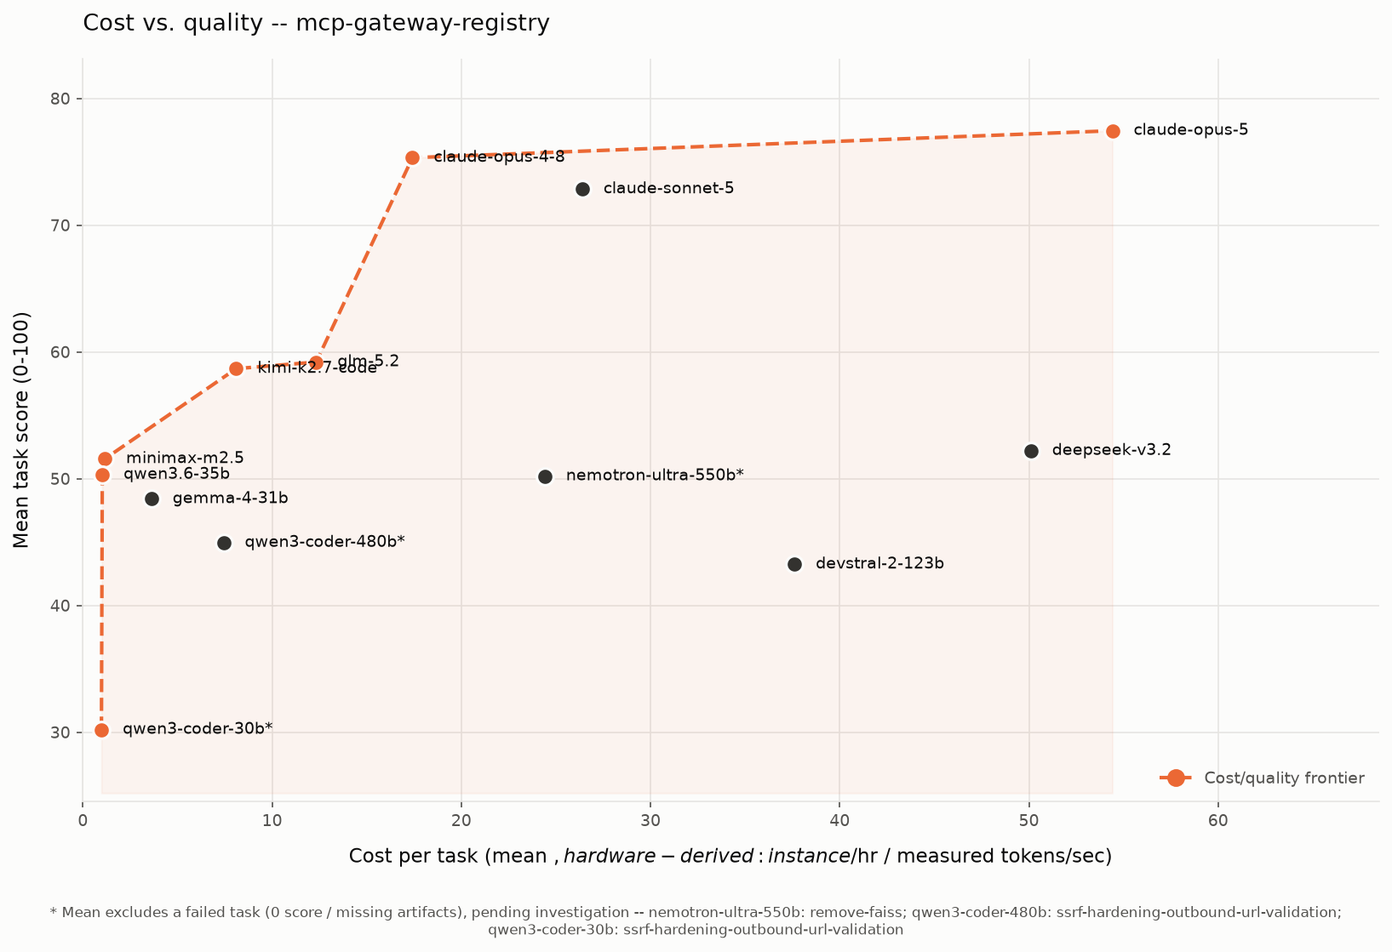
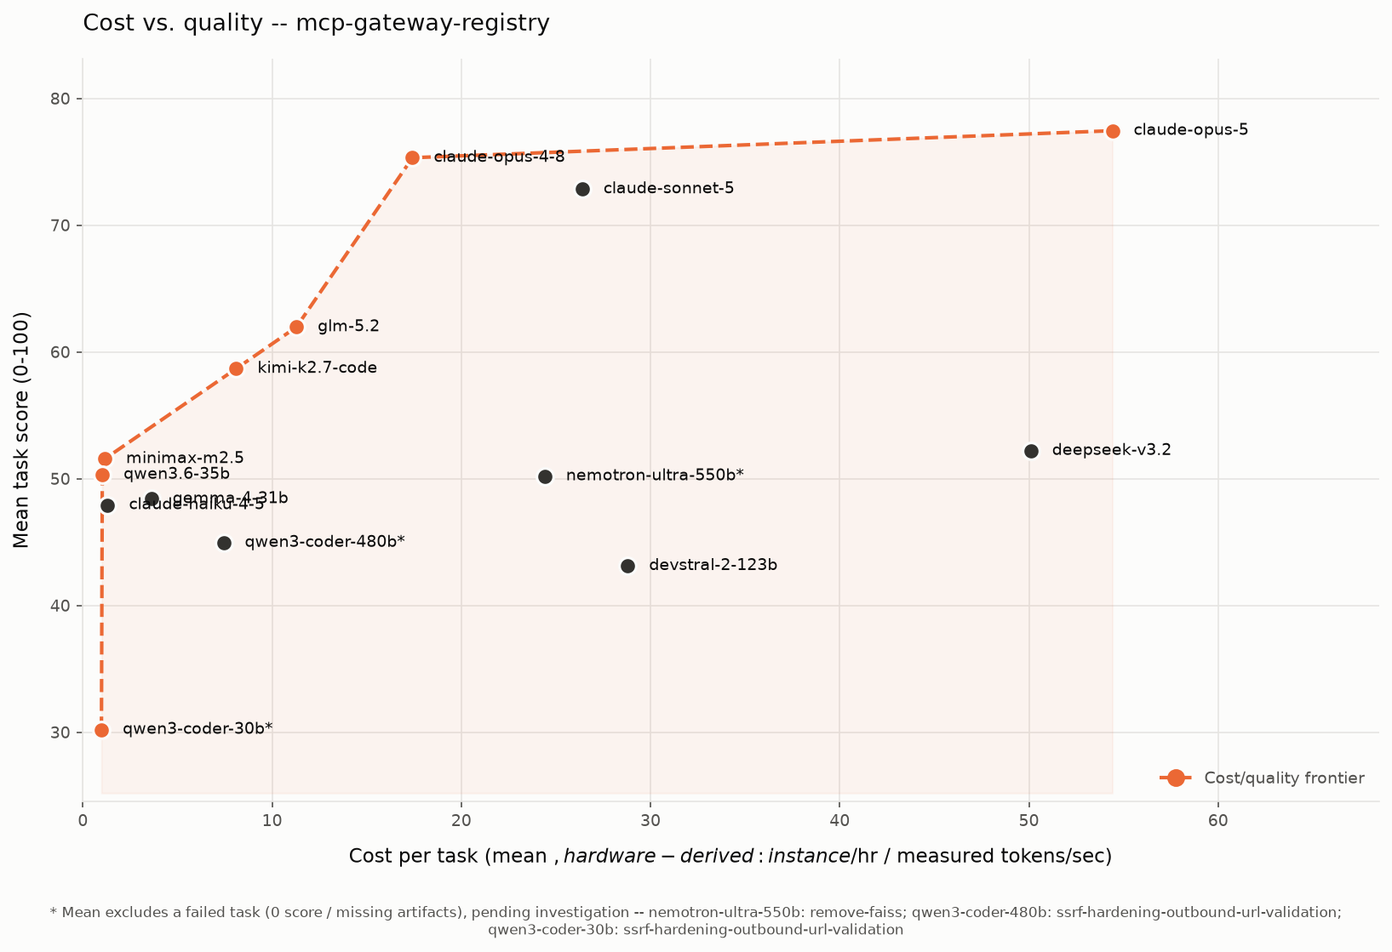
README: GLM-5.2 200K re-run, Devstral TP=4, add Claude-Haiku-4.5 (14 models)
Fold three merged benchmark updates into the results table, leaderboard,
cost/quality chart, and narrative:

- GLM-5.2 (PR #54): re-run at the standard 200K window (was 300K). Score
  59.20 -> 61.96 (5/5), now apples-to-apples on context and the top
  open-weight model; hardware-derived cost $12.33 -> $11.29/task.
- Devstral-2-123B (PR #53): re-run at TP=4 (half the H200 box, was TP=8).
  No quality regression: 43.24 -> 43.12 (5/5); token-est cost -> $28.80.
- Claude-Haiku-4.5 (PR #52): new Path 1 (Bedrock) column/row -- 47.92 mean,
  5/5, $1.31/task metered bill. Mid-pack quality; dominated on cost by
  MiniMax-M2.5 ($1.16 / 51.56) so it sits just off the frontier.

Both cost/quality charts regenerated (14 models, 7 on frontier). Footnotes 6
and 9, the frontier caption, model counts, and 'coming soon' list updated
(Haiku moves from coming-soon to benchmarked).

diff --git a/README.md b/README.md
@@ -16,7 +16,7 @@ Each task points the agent at a real GitHub repository and a real problem. The a
 
 ## Results: a worked example
 
-To show what the harness produces, we ran it against [agentic-community/mcp-gateway-registry](https://github.com/agentic-community/mcp-gateway-registry) at tag `1.24.4` -- **5 tasks**, each scored by the judge. Below is what we have measured so far: **13 models** across **Path 1** (Anthropic on Amazon Bedrock) and **Path 3** (self-hosted on vLLM, across an 8x H200 `p5en.48xlarge` and a single `g6e.12xlarge`); the cost/quality chart leads, the full task-by-task table and per-model leaderboard follow, and the exact models + hardware are listed under the table. Path 2 (open-weight on Bedrock via the LiteLLM proxy) is **coming soon** -- we publish only what we have measured here. (The `mcp-gateway-registry` dataset ships in [benchmarks/dataset/](benchmarks/dataset/mcp-gateway-registry.yaml) so you can reproduce the run; the generated artifacts themselves are not committed, so a customer's own runs never risk landing in version control. The only committed worked example under [benchmarks/swe-benchmark-data/](benchmarks/swe-benchmark-data/) is the trivial `Hello-World` sanity run.)
+To show what the harness produces, we ran it against [agentic-community/mcp-gateway-registry](https://github.com/agentic-community/mcp-gateway-registry) at tag `1.24.4` -- **5 tasks**, each scored by the judge. Below is what we have measured so far: **14 models** across **Path 1** (Anthropic on Amazon Bedrock) and **Path 3** (self-hosted on vLLM, across an 8x H200 `p5en.48xlarge` and a single `g6e.12xlarge`); the cost/quality chart leads, the full task-by-task table and per-model leaderboard follow, and the exact models + hardware are listed under the table. Path 2 (open-weight on Bedrock via the LiteLLM proxy) is **coming soon** -- we publish only what we have measured here. (The `mcp-gateway-registry` dataset ships in [benchmarks/dataset/](benchmarks/dataset/mcp-gateway-registry.yaml) so you can reproduce the run; the generated artifacts themselves are not committed, so a customer's own runs never risk landing in version control. The only committed worked example under [benchmarks/swe-benchmark-data/](benchmarks/swe-benchmark-data/) is the trivial `Hello-World` sanity run.)
 
 | # | Problem | Difficulty | Source |
 |---|---------|-----------|--------|
@@ -26,42 +26,42 @@ To show what the harness produces, we ran it against [agentic-community/mcp-gate
 | 4 | `migrate-ecs-env-vars-to-secrets-manager` | High | Upstream [#1134](https://github.com/agentic-community/mcp-gateway-registry/issues/1134) |
 | 5 | `replace-keycloak-db-password-with-rds-iam` | High | Upstream [#1303](https://github.com/agentic-community/mcp-gateway-registry/issues/1303) |
 
-**Models benchmarked so far:** **Path 1 (Bedrock):** Claude-Opus-5, Claude-Opus-4.8, Claude-Sonnet-5. **Path 3 (self-hosted on vLLM):** Kimi-K2.7-Code, GLM-5.2, DeepSeek-V3.2, MiniMax-M2.5, Nemotron-Ultra-550B, Qwen3-Coder-480B-A35B-Instruct, and Devstral-2-123B-Instruct (all on 8x H200 / `p5en.48xlarge`), plus Qwen3.6-35B-A3B, Qwen3-Coder-30B-A3B-Instruct, Qwen3-Coder-Next, and Gemma-4-31B-it (on `g6e.12xlarge` / 4x L40S). **Coming soon:** Claude Haiku on Bedrock (Path 1) and Path 2 (open-weight on Bedrock via the LiteLLM proxy -- Mistral, …).
+**Models benchmarked so far:** **Path 1 (Bedrock):** Claude-Opus-5, Claude-Opus-4.8, Claude-Sonnet-5, Claude-Haiku-4.5. **Path 3 (self-hosted on vLLM):** Kimi-K2.7-Code, GLM-5.2, DeepSeek-V3.2, MiniMax-M2.5, Nemotron-Ultra-550B, Qwen3-Coder-480B-A35B-Instruct, and Devstral-2-123B-Instruct (all on 8x H200 / `p5en.48xlarge`), plus Qwen3.6-35B-A3B, Qwen3-Coder-30B-A3B-Instruct, Qwen3-Coder-Next, and Gemma-4-31B-it (on `g6e.12xlarge` / 4x L40S). **Coming soon:** Path 2 (open-weight on Bedrock via the LiteLLM proxy -- Mistral, …).
 
 ### Cost vs. quality
 
 ![Cost vs. quality scatter: mean estimated cost per task against mean task score, for the self-hosted models, with the cost/quality frontier highlighted](docs/images/cost-quality.png)
 
-Mean cost per task (x) against mean task score (y), one point per model. For **self-hosted** models with a throughput sweep, cost is **hardware-derived**: the model's blended cost per token (instance $/hr / measured tokens/sec, see [cost-per-task-methodology.md](self-hosted/vllm/cost-per-task-methodology.md)) times its *actual* input+output tokens per task, averaged over non-failed tasks. The three **Anthropic** points (Opus-5, Opus-4.8, Sonnet-5) are **real token-metered Bedrock bills**; **DeepSeek-V3.2**, **Nemotron-Ultra-550B**, and **Devstral-2-123B** have no sweep so use a token-priced estimate (`‡`) -- comparable as spend, different in kind. The cost/quality frontier runs **Qwen3-Coder-30B ($0.98 / 30.20) -> Qwen3.6-35B ($1.03 / 50.32) -> MiniMax-M2.5 ($1.16 / 51.56) -> Kimi-K2.7-Code ($8.10 / 58.68) -> GLM-5.2 ($12.33 / 59.20) -> Claude-Opus-4.8 ($17.42 / 75.32) -> Claude-Opus-5 ($54.41 / 77.45)**. Everything else is **dominated**: notably Claude-Sonnet-5 (72.84 but $26.39), Gemma-4-31B, Qwen3-Coder-480B ($7.43), Devstral-2-123B ($37.61 est.), Nemotron-Ultra-550B, and DeepSeek-V3.2 ($50.10 est., the priciest). Opus-5 is the top-quality point but its $54.41/task makes it the frontier's expensive extreme -- Opus-4.8 delivers nearly the same quality for a third of the cost. Qwen3-Coder-Next is omitted (not viable on this node). A model's mean excludes any 0-score failed task (footnote ⁵). Regenerate with `uv run scripts/plot_cost_quality.py` (add `--dark`) from `benchmarks/`.
+Mean cost per task (x) against mean task score (y), one point per model. For **self-hosted** models with a throughput sweep, cost is **hardware-derived**: the model's blended cost per token (instance $/hr / measured tokens/sec, see [cost-per-task-methodology.md](self-hosted/vllm/cost-per-task-methodology.md)) times its *actual* input+output tokens per task, averaged over non-failed tasks. The four **Anthropic** points (Opus-5, Opus-4.8, Sonnet-5, Haiku-4.5) are **real token-metered Bedrock bills**; **DeepSeek-V3.2**, **Nemotron-Ultra-550B**, and **Devstral-2-123B** have no sweep so use a token-priced estimate (`‡`) -- comparable as spend, different in kind. The cost/quality frontier runs **Qwen3-Coder-30B ($0.98 / 30.20) -> Qwen3.6-35B ($1.03 / 50.32) -> MiniMax-M2.5 ($1.16 / 51.56) -> Kimi-K2.7-Code ($8.10 / 58.68) -> GLM-5.2 ($11.29 / 61.96) -> Claude-Opus-4.8 ($17.42 / 75.32) -> Claude-Opus-5 ($54.41 / 77.45)**. Everything else is **dominated**: notably Claude-Haiku-4.5 (47.92 at $1.31, just off the frontier behind MiniMax on both axes), Claude-Sonnet-5 (72.84 but $26.39), Gemma-4-31B, Qwen3-Coder-480B ($7.43), Devstral-2-123B ($28.80 est.), Nemotron-Ultra-550B, and DeepSeek-V3.2 ($50.10 est., the priciest). Opus-5 is the top-quality point but its $54.41/task makes it the frontier's expensive extreme -- Opus-4.8 delivers nearly the same quality for a third of the cost. Qwen3-Coder-Next is omitted (not viable on this node). A model's mean excludes any 0-score failed task (footnote ⁵). Regenerate with `uv run scripts/plot_cost_quality.py` (add `--dark`) from `benchmarks/`.
 
 ### Results -- 5 tasks x models
 
-All cells are task scores (0-100), the mean of the artifact totals per (task x model). These are **`/swe2` runs -- design *and* implementation** (six artifacts: the four design docs plus `patch.diff` + `implementation.md`), scored by the same judge (`codex exec`, `gpt-5.6-sol`, high reasoning effort). **Claude-Opus-5, Claude-Opus-4.8, and Claude-Sonnet-5** are **Path 1** results (Anthropic on Amazon Bedrock); every other column is **Path 3, self-hosted via vLLM** (hardware differs by model size -- see the row under the table). Columns are ordered by mean score. Bold = top score in row. Path 2 (open-weight on Bedrock via LiteLLM) is still **coming soon**.
+All cells are task scores (0-100), the mean of the artifact totals per (task x model). These are **`/swe2` runs -- design *and* implementation** (six artifacts: the four design docs plus `patch.diff` + `implementation.md`), scored by the same judge (`codex exec`, `gpt-5.6-sol`, high reasoning effort). **Claude-Opus-5, Claude-Opus-4.8, Claude-Sonnet-5, and Claude-Haiku-4.5** are **Path 1** results (Anthropic on Amazon Bedrock); every other column is **Path 3, self-hosted via vLLM** (hardware differs by model size -- see the row under the table). Columns are ordered by mean score. Bold = top score in row. Path 2 (open-weight on Bedrock via LiteLLM) is still **coming soon**.
 
-| Task | Diff. | Opus-5⁸ | Opus-4.8⁹ | Sonnet-5⁹ | GLM-5.2⁶ | Kimi-K2.7 | DeepSeek-V3.2 | MiniMax-M2.5 | Qwen3.6-35B | Nemotron-550B | Gemma-4-31B | Qwen3-Coder-480B⁷ | Devstral-2-123B | Qwen3-Coder-30B |
-|------|-------|--------:|----------:|----------:|---------:|----------:|--------------:|-------------:|------------:|--------------:|------------:|------------------:|----------------:|----------------:|
-| `remove-faiss` | Med | 69.6 | 69.2 | **72.8** | 54.0 | 55.2 | 48.2 | 44.2 | 53.2 | 0.0 ⁵ | 38.0 | 45.6 | 40.2 | 32.0 |
-| `remove-efs-from-terraform-aws-ecs` | Med | **89.2** | 79.6 | 86.8 | 64.0 | 63.4 | 59.0 | 62.0 | 65.2 | 55.4 | 53.6 | 55.4 | 49.6 | 28.2 |
-| `ssrf-hardening-outbound-url-validation` | Med | 78.6 | **80.6** | 68.6 | 66.8 | 56.4 | 56.4 | 58.2 | 41.6 | 52.4 | 64.6 | 0.0 ⁵ | 47.2 | 0.0 ⁵ |
-| `migrate-ecs-env-vars-to-secrets-manager` | High | n/a⁸ | **70.6** | 66.0 | 54.2 | 67.6 | 51.2 | 53.6 | 46.4 | 50.0 | 48.4 | 41.0 | 38.2 | 30.8 |
-| `replace-keycloak-db-password-with-rds-iam` | High | 72.4 | **76.6** | 70.0 | 57.0 | 50.8 | 46.2 | 39.8 | 45.2 | 43.0 | 37.4 | 37.8 | 41.0 | 29.8 |
-| **Mean (excl. failed⁵)** | | **77.45** | 75.32 | 72.84 | 59.20 | 58.68 | 52.20 | 51.56 | 50.32 | 50.20 | 48.40 | 44.95 | 43.24 | 30.20 |
+| Task | Diff. | Opus-5⁸ | Opus-4.8⁹ | Sonnet-5⁹ | GLM-5.2⁶ | Kimi-K2.7 | DeepSeek-V3.2 | MiniMax-M2.5 | Qwen3.6-35B | Nemotron-550B | Gemma-4-31B | Haiku-4.5⁹ | Qwen3-Coder-480B⁷ | Devstral-2-123B | Qwen3-Coder-30B |
+|------|-------|--------:|----------:|----------:|---------:|----------:|--------------:|-------------:|------------:|--------------:|------------:|-----------:|------------------:|----------------:|----------------:|
+| `remove-faiss` | Med | 69.6 | 69.2 | **72.8** | 58.2 | 55.2 | 48.2 | 44.2 | 53.2 | 0.0 ⁵ | 38.0 | 36.2 | 45.6 | 43.6 | 32.0 |
+| `remove-efs-from-terraform-aws-ecs` | Med | **89.2** | 79.6 | 86.8 | 65.2 | 63.4 | 59.0 | 62.0 | 65.2 | 55.4 | 53.6 | 55.8 | 55.4 | 47.4 | 28.2 |
+| `ssrf-hardening-outbound-url-validation` | Med | 78.6 | **80.6** | 68.6 | 65.2 | 56.4 | 56.4 | 58.2 | 41.6 | 52.4 | 64.6 | 49.8 | 0.0 ⁵ | 51.8 | 0.0 ⁵ |
+| `migrate-ecs-env-vars-to-secrets-manager` | High | n/a⁸ | **70.6** | 66.0 | 63.2 | 67.6 | 51.2 | 53.6 | 46.4 | 50.0 | 48.4 | 49.2 | 41.0 | 42.8 | 30.8 |
+| `replace-keycloak-db-password-with-rds-iam` | High | 72.4 | **76.6** | 70.0 | 58.0 | 50.8 | 46.2 | 39.8 | 45.2 | 43.0 | 37.4 | 48.6 | 37.8 | 30.0 | 29.8 |
+| **Mean (excl. failed⁵)** | | **77.45** | 75.32 | 72.84 | 61.96 | 58.68 | 52.20 | 51.56 | 50.32 | 50.20 | 48.40 | 47.92 | 44.95 | 43.12 | 30.20 |
 
-The **Mean** row excludes any task that scored 0 -- a genuine model failure (missing artifacts), an unresolved anomaly rather than a quality measurement, so it is left out of the average **pending further investigation** and flagged with `⁵`. Per-task 0.0 cells are still shown so the failure is visible. No-failure (5/5): Opus-4.8, Sonnet-5, GLM-5.2, Kimi-K2.7-Code, DeepSeek-V3.2, MiniMax-M2.5, Qwen3.6-35B, Gemma-4-31B, Devstral-2-123B. 4/5 (one failed): Nemotron-550B (`remove-faiss`), Qwen3-Coder-480B (`ssrf`), Qwen3-Coder-30B (`ssrf`). **Opus-5 ran 4 tasks** (`migrate` not run) -- its mean is over those 4; see `⁸`.
+The **Mean** row excludes any task that scored 0 -- a genuine model failure (missing artifacts), an unresolved anomaly rather than a quality measurement, so it is left out of the average **pending further investigation** and flagged with `⁵`. Per-task 0.0 cells are still shown so the failure is visible. No-failure (5/5): Opus-4.8, Sonnet-5, Haiku-4.5, GLM-5.2, Kimi-K2.7-Code, DeepSeek-V3.2, MiniMax-M2.5, Qwen3.6-35B, Gemma-4-31B, Devstral-2-123B. 4/5 (one failed): Nemotron-550B (`remove-faiss`), Qwen3-Coder-480B (`ssrf`), Qwen3-Coder-30B (`ssrf`). **Opus-5 ran 4 tasks** (`migrate` not run) -- its mean is over those 4; see `⁸`.
 
-**Hardware:** Kimi-K2.7-Code (1.06T-param MoE, ~1 TB weights) ran on **8x H200** (`p5en.48xlarge`) at its full **131,072-token (128K) native context window**; GLM-5.2 (744B MoE / 40B active, ~750 GB FP8 weights), MiniMax-M2.5, Qwen3-Coder-480B (480B MoE / 35B active, FP8, TP=4), DeepSeek-V3.2, Nemotron-Ultra-550B, and Devstral-2-123B (123B dense, 256K window) also ran on **8x H200** (`p5en.48xlarge`); the three smaller Qwen models (3B-active MoE) and Gemma-4-31B (dense, ~63 GB) ran on a single **`g6e.12xlarge`** (4x L40S) at a 200K window. All via vLLM. Gemma-4-31B is dense and slow, so it used a raised per-task timeout (`--timeout-seconds 3600`); the default 1800s was not enough for it to return. Note Kimi's 128K window is below the harness's 200K agentic-coding guideline, yet it completed all 5 tasks with no failures -- two tasks (`ssrf`, `remove-faiss`) hit the max-turns cap (251) at that window but still produced scoreable artifacts, so neither is a context-overflow failure.
+**Hardware:** Claude-Haiku-4.5 is a **Path 1** (Amazon Bedrock) result like the other Claude models -- no self-hosting. Kimi-K2.7-Code (1.06T-param MoE, ~1 TB weights) ran on **8x H200** (`p5en.48xlarge`) at its full **131,072-token (128K) native context window**; GLM-5.2 (744B MoE / 40B active, ~750 GB FP8 weights, 200K window), MiniMax-M2.5, Qwen3-Coder-480B (480B MoE / 35B active, FP8, TP=4), DeepSeek-V3.2, Nemotron-Ultra-550B, and Devstral-2-123B (123B dense, FP8, ~128 GB, served at **TP=4** -- half the box -- at a 256K window) also ran on **8x H200** (`p5en.48xlarge`); the three smaller Qwen models (3B-active MoE) and Gemma-4-31B (dense, ~63 GB) ran on a single **`g6e.12xlarge`** (4x L40S) at a 200K window. All via vLLM. Gemma-4-31B is dense and slow, so it used a raised per-task timeout (`--timeout-seconds 3600`); the default 1800s was not enough for it to return. Note Kimi's 128K window is below the harness's 200K agentic-coding guideline, yet it completed all 5 tasks with no failures -- two tasks (`ssrf`, `remove-faiss`) hit the max-turns cap (251) at that window but still produced scoreable artifacts, so neither is a context-overflow failure.
 
 ⁴ Qwen3-Coder-Next (79.6B, ~160 GB weights) **could not be benchmarked on the `g6e.12xlarge`.** There the weights leave room for only a ~16K context window, but agentic coding tasks need 100K-250K input tokens per request, so every task overflows the window on the first prompt. It needs a larger-VRAM node (e.g. `g6e.48xlarge`) to serve a >=200K window. The `/benchmark` skill enforces a 200K-minimum gate by default as a conservative guideline -- Kimi's 128K run shows a window somewhat below 200K can still work when the tasks fit, but 16K cannot. See [self-hosted/vllm/models/qwen3-coder-next.md](self-hosted/vllm/models/qwen3-coder-next.md).
 
 ⁵ **Genuine model failures, scored 0.** On these `/swe2` runs the failures are: Nemotron-Ultra-550B on `remove-faiss`, Qwen3-Coder-480B on `ssrf`, and Qwen3-Coder-30B on `ssrf`. Each failed to produce a scorable artifact set (typically the model exhausted its turn budget on the implementation step without landing edits, so no `patch.diff`). The judge records a missing/empty-artifact folder as a 0 with a `MODEL FAILURE` verdict rather than dropping it. The **Mean** row is over the tasks each model completed, excluding those failures: 5/5 for Opus-4.8, Sonnet-5, GLM-5.2, Kimi-K2.7-Code, DeepSeek-V3.2, MiniMax-M2.5, Qwen3.6-35B, Gemma-4-31B, Devstral-2-123B; 4/5 for Nemotron-Ultra-550B, Qwen3-Coder-480B, and Qwen3-Coder-30B; Opus-5 ran 4/4 (the `migrate` task was not run -- see `⁸`).
 
-⁶ **GLM-5.2 ran with more headroom than the others -- not strictly apples-to-apples.** GLM-5.2 (`zai-org/GLM-5.2-FP8`, 744B MoE / 40B active, ~750 GB FP8 weights) was served on **8x H200** at a **300K context window** (~$12.33/task, see the cost section). It scores 59.20 over 5/5 -- narrowly ahead of Kimi (58.68) on the same box. Treat cross-instance comparisons as indicative until normalized.
+⁶ **GLM-5.2 re-run at the standard 200K window.** GLM-5.2 (`zai-org/GLM-5.2-FP8`, 744B MoE / 40B active, ~750 GB FP8 weights) was served on **8x H200** at a **200K context window** (~$11.29/task, see the cost section) -- the same window the other H200 models use, so it is now apples-to-apples on context (an earlier run used a 300K window and scored 59.20). At 200K it scores **61.96 over 5/5**, ahead of Kimi (58.68) on the same box and the top open-weight model overall.
 
 ⁷ **Qwen3-Coder-480B intermittently fails to produce artifacts -- the failure is nondeterministic, not task-specific.** Qwen3-Coder-480B (`Qwen/Qwen3-Coder-480B-A35B-Instruct-FP8`, 480B MoE / 35B active) was served on the **8x H200** node at **TP=4** (a block-FP8 MoE sharding constraint forces TP=4, not 8 -- see [its model guide](self-hosted/vllm/models/qwen3-coder-480b.md)), 200K window. Like the smaller Qwen3-Coder-30B, it periodically explores/edits the repo instead of completing the artifact chain (or exhausts the turn cap), scoring 0 on some tasks. It is a harness-conformance instability of a coder-tuned model, not a serving or context problem.
 
 ⁸ **Claude-Opus-5 ran only 4 of the 5 tasks** (`migrate-ecs-env-vars-to-secrets-manager` was not run), so its 77.45 mean is over those 4 -- not strictly comparable to the 5-task means until it is completed. It is a Path 1 (Bedrock) result like Opus-4.8/Sonnet-5, so its **$54.41/task is a real metered API bill** (its long, thorough implementations run up output tokens -- the most expensive per task measured). It tops the quality table but sits well right of the frontier on cost.
 
-⁹ **Claude-Opus-4.8 and Claude-Sonnet-5 are Path 1 (Bedrock) results -- their cost is a real metered API bill, not hardware-derived.** Both were run through Amazon Bedrock (no self-hosting), so their `$/task` ($17.42 and $26.39) is the actual token-metered charge (read from each run's `total_cost_usd`), whereas a self-hosted model's `$/task` is `instance $/hr / measured tokens/sec` x tokens (see the cost section). Comparable as "what you would pay," but different in provenance. Opus-4.8 is on the frontier at $17.42; the best open-weight model is GLM-5.2 (59.20) at $12.33/task, just ahead of Kimi-K2.7-Code (58.68) at ~$8/task. Sonnet-5 (72.84) is a close second on quality but pricier per task ($26.39 -- more verbose implementations, more output tokens), so it sits just off the frontier.
+⁹ **Claude-Opus-4.8, Claude-Sonnet-5, and Claude-Haiku-4.5 are Path 1 (Bedrock) results -- their cost is a real metered API bill, not hardware-derived.** All were run through Amazon Bedrock (no self-hosting), so their `$/task` ($17.42, $26.39, and $1.31) is the actual token-metered charge (read from each run's `total_cost_usd`), whereas a self-hosted model's `$/task` is `instance $/hr / measured tokens/sec` x tokens (see the cost section). Comparable as "what you would pay," but different in provenance. Opus-4.8 is on the frontier at $17.42; the best open-weight model is GLM-5.2 (61.96) at $11.29/task, ahead of Kimi-K2.7-Code (58.68) at ~$8/task. Sonnet-5 (72.84) is a close second on quality but pricier per task ($26.39 -- more verbose implementations, more output tokens), so it sits just off the frontier. Haiku-4.5 is the cheapest Claude at $1.31/task but scores 47.92 (mid-pack), so it is dominated on cost by MiniMax-M2.5 ($1.16 / 51.56) and sits just off the frontier.
 
 ### Per-model leaderboard (so far)
 
@@ -72,28 +72,29 @@ Mean score is over the tasks each model completed (any 0-score failed task is ex
 | 1 | Claude-Opus-5⁸ | -- (Bedrock) | Amazon Bedrock (Path 1) | **77.45** | $54.41† | 4/5 |
 | 2 | Claude-Opus-4.8⁹ | -- (Bedrock) | Amazon Bedrock (Path 1) | **75.32** | $17.42† | 5/5 |
 | 3 | Claude-Sonnet-5⁹ | -- (Bedrock) | Amazon Bedrock (Path 1) | **72.84** | $26.39† | 5/5 |
-| 4 | GLM-5.2⁶ | 744B (40B) | 8x H200 | **59.20** | $12.33 | 5/5 |
+| 4 | GLM-5.2⁶ | 744B (40B) | 8x H200 | **61.96** | $11.29 | 5/5 |
 | 5 | Kimi-K2.7-Code | 1,058.6B (MoE) | 8x H200 | **58.68** | $8.10 | 5/5 |
 | 6 | DeepSeek-V3.2 | 671B (37B) | 8x H200 | **52.20** | $50.10‡ | 5/5 |
 | 7 | MiniMax-M2.5 | 230B (10B) | 8x H200 (TP=4) | **51.56** | $1.16 | 5/5 |
 | 8 | Qwen3.6-35B-A3B | 35.9B (3B) | g6e.12xlarge | **50.32** | $1.03 | 5/5 |
 | 9 | Nemotron-Ultra-550B | 550B (dense) | 8x H200 | **50.20** | $24.41‡ | 4/5 |
 | 10 | Gemma-4-31B-it | 31B (dense) | g6e.12xlarge | **48.40** | $3.62 | 5/5 |
-| 11 | Qwen3-Coder-480B-A35B-Instruct⁷ | 480B (35B) | 8x H200 (TP=4) | **44.95** | $7.43 | 4/5 |
-| 12 | Devstral-2-123B-Instruct | 123B (dense) | 8x H200 | **43.24** | $37.61‡ | 5/5 |
-| 13 | Qwen3-Coder-30B-A3B-Instruct | 30.5B (3B) | g6e.12xlarge | **30.20** | **$0.98** | 4/5 |
+| 11 | Claude-Haiku-4.5⁹ | -- (Bedrock) | Amazon Bedrock (Path 1) | **47.92** | $1.31† | 5/5 |
+| 12 | Qwen3-Coder-480B-A35B-Instruct⁷ | 480B (35B) | 8x H200 (TP=4) | **44.95** | $7.43 | 4/5 |
+| 13 | Devstral-2-123B-Instruct | 123B (dense) | 8x H200 (TP=4) | **43.12** | $28.80‡ | 5/5 |
+| 14 | Qwen3-Coder-30B-A3B-Instruct | 30.5B (3B) | g6e.12xlarge | **30.20** | **$0.98** | 4/5 |
 | - | Qwen3-Coder-Next | 79.6B (3B) | (needs bigger node) | not viable on g6e.12xlarge | -- | 0 |
 
-† Claude-Opus-5 / Claude-Opus-4.8 / Claude-Sonnet-5 `$/task` is a real Bedrock **API bill** (token-metered), not a hardware-derived figure; see footnotes `⁸` and `⁹`.
+† Claude-Opus-5 / Claude-Opus-4.8 / Claude-Sonnet-5 / Claude-Haiku-4.5 `$/task` is a real Bedrock **API bill** (token-metered), not a hardware-derived figure; see footnotes `⁸` and `⁹`.
 ‡ DeepSeek-V3.2, Nemotron-Ultra-550B, and Devstral-2-123B are self-hosted but have **no throughput sweep**, so their `$/task` is the harness's **token-priced estimate**, not the hardware-derived (`instance $/hr / tokens-sec`) figure used for the other self-hosted rows -- treat those three costs as indicative and higher-variance until a sweep is run.
 
-**Coming soon:** Claude Haiku on Bedrock (Path 1) and the open-weight Bedrock models via the LiteLLM proxy (Path 2 -- Mistral, …).
+**Coming soon:** the open-weight Bedrock models via the LiteLLM proxy (Path 2 -- Mistral, …).
 
 ### What the data says (so far)
 
 These are early self-hosted numbers on differing hardware; treat them as a starting point, not a final ranking. Cross-path comparisons wait until the Bedrock paths are run.
 
-- **The Anthropic models top the table:** Claude-Opus-5 (77.45, but over 4/5 -- see ⁸), Claude-Opus-4.8 (75.32 over 5/5), and Claude-Sonnet-5 (72.84 over 5/5) lead every self-hosted model by a clear margin -- the best open-weight is GLM-5.2 at 59.20 ($12.33/task, 5/5), just ahead of Kimi-K2.7-Code at 58.68 (~$8/task, 5/5). Opus-4.8 is the best-value frontier point at $17.42; Opus-5 edges it on quality but costs 3x as much ($54.41/task, its long implementations run up output tokens), and Sonnet-5 scores nearly as high but costs more per task ($26.39), so it sits just off the frontier.
+- **The frontier Anthropic models top the table:** Claude-Opus-5 (77.45, but over 4/5 -- see ⁸), Claude-Opus-4.8 (75.32 over 5/5), and Claude-Sonnet-5 (72.84 over 5/5) lead every self-hosted model by a clear margin -- the best open-weight is GLM-5.2 at 61.96 ($11.29/task, 5/5, re-run at the standard 200K window), just ahead of Kimi-K2.7-Code at 58.68 (~$8/task, 5/5). Opus-4.8 is the best-value frontier point at $17.42; Opus-5 edges it on quality but costs 3x as much ($54.41/task, its long implementations run up output tokens), and Sonnet-5 scores nearly as high but costs more per task ($26.39), so it sits just off the frontier. The cheapest Claude, Haiku-4.5, lands mid-pack (47.92 over 5/5) at just $1.31/task -- but MiniMax-M2.5 beats it on both score and cost, so it sits just off the frontier too.
 - **Qwen3.6-35B is the value story:** on one mid-range GPU node (a single g6e.12xlarge) it scores 50.32 over all 5 tasks with no failures at a **hardware-derived $1.03 per task** -- roughly a median score at a small fraction of the frontier models' cost, and on the cost/quality frontier.
 - **MiniMax-M2.5 is the best quality-per-dollar in the upper-middle:** 51.56 over 5/5 at **$1.16/task** -- it beats the dense Gemma-4-31B ($3.62) and the much pricier Qwen3-Coder-480B ($7.43) and DeepSeek-V3.2 ($50.10 est.) while costing a fraction, anchoring the frontier just above Qwen3.6-35B.
 - **Cost is hardware-derived where a throughput sweep exists.** For the self-hosted models with a sweep, $/task is `instance $/hr / measured tokens/sec` times that model's real per-task token load; the three Anthropic rows are real Bedrock API bills; DeepSeek-V3.2, Nemotron-Ultra-550B, and Devstral-2-123B lack a sweep and fall back to a token-priced estimate (flagged `‡`). See [cost-per-task-methodology.md](self-hosted/vllm/cost-per-task-methodology.md).
